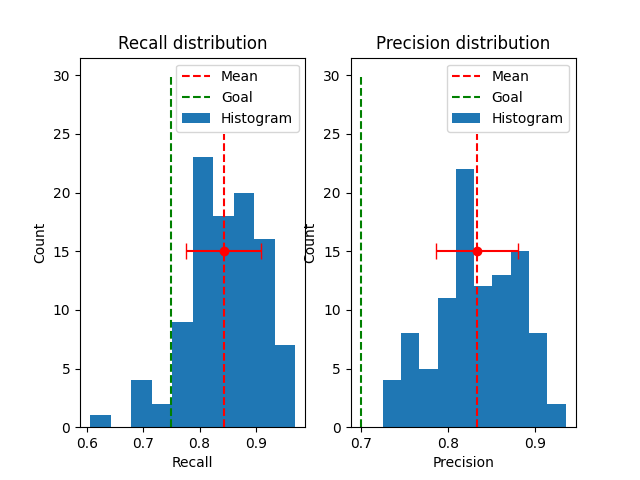
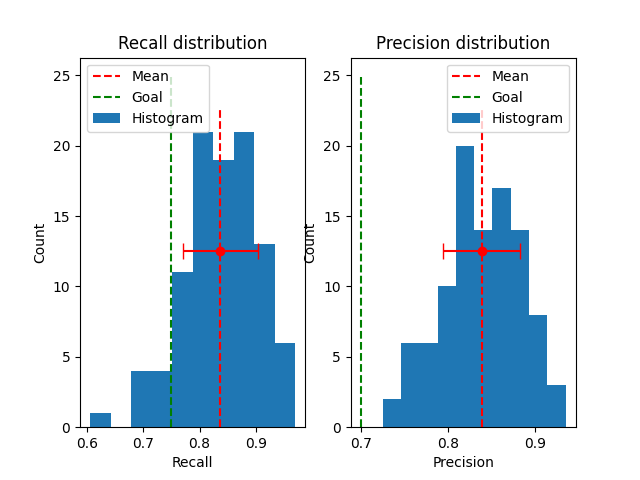
removed threshold - returned to binary classifier

diff --git a/src/hdp_model_evaluator.py b/src/hdp_model_evaluator.py
@@ -12,7 +12,7 @@ class HdpModelEvaluator():
         self.__pipeline = pipeline
         self.__random_state = random_state
         
-    def kfold_cross_val(self, X_train, y_train, threshold=0.5, random_state=100):
+    def kfold_cross_val(self, X_train, y_train, random_state=100):
         recalls = []
         precisions = []
         for i in tqdm(range(10)):
@@ -26,7 +26,7 @@ class HdpModelEvaluator():
                 X_train_fold = pipeline.fit_transform(X_train_fold)
                 X_val_fold = pipeline.transform(X_val_fold)
                 trainer = HdpModelTrainer(clone(self.__model), self.__random_state)
-                trainer.train(X_train_fold, y_train_fold, threshold)
+                trainer.train(X_train_fold, y_train_fold)
                 y_pred = trainer.predict(X_val_fold)
                 recalls.append(recall_score(y_val_fold, y_pred, average="binary"))
                 precisions.append(precision_score(y_val_fold, y_pred, average="binary"))
@@ -34,7 +34,7 @@ class HdpModelEvaluator():
         return {"mean_recall": sum(recalls)/len(recalls), "std_recall": np.std(recalls), "recalls": recalls,
                 "mean_precision": sum(precisions)/len(precisions), "std_precision": np.std(precisions), "precisions": precisions}
 
-    def test_scores(self, X_train, y_train, X_test, y_test, threshold=0.5):
+    def test_scores(self, X_train, y_train, X_test, y_test):
         X_train_copy = X_train.copy()
         X_test_copy = X_test.copy()
         y_train_copy = y_train.copy()
@@ -43,7 +43,7 @@ class HdpModelEvaluator():
         X_train_copy = pipeline.fit_transform(X_train_copy)
         X_test_copy = pipeline.transform(X_test_copy)
         trainer = HdpModelTrainer(clone(self.__model), self.__random_state)
-        trainer.train(X_train_copy, y_train_copy, threshold)
+        trainer.train(X_train_copy, y_train_copy)
         y_pred = trainer.predict(X_test_copy)
         
         return {"test_recall": recall_score(y_test_copy, y_pred, average="binary"),

diff --git a/src/hdp_model_trainer.py b/src/hdp_model_trainer.py
@@ -6,7 +6,6 @@ class HdpModelTrainer():
     def __init__(self, model=None, random_state=100):
         self.__random_state = random_state
         self.__model = model
-        self.__threshold = None
         self.trained = False
         
     def save_trainer(self, folder_path="../deploy-models/", filename="trainer.pkl"):
@@ -27,18 +26,15 @@ class HdpModelTrainer():
     def set_model(self, model):
         self.__model = model
     
-    def train(self, X_train, y_train, threshold=0.5):
+    def train(self, X_train, y_train):
         X_train_over, y_train_over = self.__fit_resample(X_train, y_train)
         self.__model.fit(X_train_over, y_train_over)
-        self.trained = True
-        self.__threshold = threshold           
+        self.trained = True         
         return self
     
     def predict(self, X):
         if(self.trained):
-            probs = self.__model.predict_proba(X)
-            y_pred = (probs[:, 1] >= self.__threshold).astype(int)
-            return y_pred
+            return self.__model.predict(X)
         return None
     
     def __fit_resample(self, X_train, y_train):

diff --git a/src/train.py b/src/train.py
@@ -10,7 +10,6 @@ def train():
     random_state = 100
     model = RandomForestClassifier(n_estimators=100, random_state=random_state)
     name = "RandomForestBaseDeploy"
-    threshold = 0.5
     
     X_train, X_test, y_train, y_test = import_heart_disease_data()
     X_all = pd.concat([X_train, X_test], axis=0)
@@ -18,7 +17,7 @@ def train():
     X_all = pipeline.fit_transform(X_all)
     y_all = pd.concat([y_train, y_test], axis=0)
     trainer = HdpModelTrainer(model, random_state)
-    trainer.train(X_all, y_all, threshold)
+    trainer.train(X_all, y_all)
     
     folder_path = f"../deploy-models/{name}/"
     pipeline.save_pipeline(folder_path, "pipeline.pkl")
@@ -27,7 +26,6 @@ def train():
     y_pred = trainer.predict(X_all)
     metrics = {}
     metrics["name"] = name
-    metrics["threshold"] = threshold
     metrics["train_precision"] = precision_score(y_all, y_pred, average="binary")
     metrics["train_recall"] = recall_score(y_all, y_pred, average="binary")
     with open(f"{folder_path}/metrics.txt", 'w') as f:

diff --git a/src/hdp_many_model_evaluator.py b/src/hdp_many_model_evaluator.py
@@ -5,17 +5,17 @@ class HdpManyModelEvaluator():
         self.__models = models
         self.__pipeline = pipeline
         
-    def kfold_cross_val(self, X_train, y_train, threshold=0.5):
+    def kfold_cross_val(self, X_train, y_train):
         metrics = []
         for model in self.__models:
             evaluator = HdpModelEvaluator(model, self.__pipeline)
-            metrics.append(evaluator.kfold_cross_val(X_train, y_train, threshold))
+            metrics.append(evaluator.kfold_cross_val(X_train, y_train))
         return metrics
 
-    def test_scores(self, X_train, y_train, X_test, y_test, threshold=0.5):
+    def test_scores(self, X_train, y_train, X_test, y_test):
         scores = []
         for model in self.__models:
             evaluator = HdpModelEvaluator(model, self.__pipeline)
-            scores.append(evaluator.test_scores(X_train, y_train, X_test, y_test, threshold))
+            scores.append(evaluator.test_scores(X_train, y_train, X_test, y_test))
         return scores
     

diff --git a/src/test.py b/src/test.py
@@ -29,7 +29,7 @@ def test():
     X_train, X_test, y_train, y_test = import_heart_disease_data()
     pipeline = HdpDataPipeline()
     many_evaluator = HdpManyModelEvaluator(models, pipeline)
-    for score, name in zip(many_evaluator.test_scores(X_train, y_train, X_test, y_test, threshold=0.5), names):
+    for score, name in zip(many_evaluator.test_scores(X_train, y_train, X_test, y_test), names):
         folder = f"../test_metrics/{name}"
         if not os.path.exists(folder):
             os.makedirs(folder)

diff --git a/src/evaluate.py b/src/evaluate.py
@@ -30,7 +30,7 @@ def evaluate():
     X_train, X_test, y_train, y_test = import_heart_disease_data()
     pipeline = HdpDataPipeline()
     many_evaluator = HdpManyModelEvaluator(models, pipeline)
-    for metrics, name in zip(many_evaluator.kfold_cross_val(X_train, y_train, threshold=0.5), names):
+    for metrics, name in zip(many_evaluator.kfold_cross_val(X_train, y_train), names):
         metrics["name"] = name
         fig, axs = plt.subplots(1, 2)
         axs[0].hist(metrics["recalls"])

diff --git a/src/predict.py b/src/predict.py
@@ -8,6 +8,7 @@ def predict(unprocessed_df):
     pipeline = HdpDataPipeline.load_pipeline(folder_path, filename="pipeline.pkl")
     trainer = HdpModelTrainer.load_trainer(folder_path, filename="trainer.pkl")
     data = pipeline.transform(unprocessed_df)
+    print(str(trainer.predict(data)))
     return str(trainer.predict(data))
 
 rows = [
